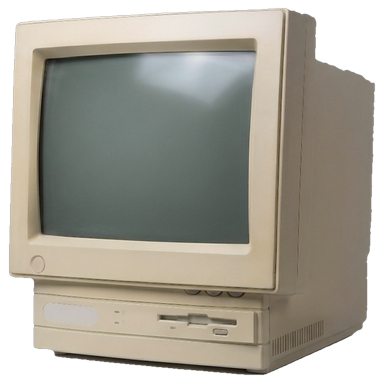
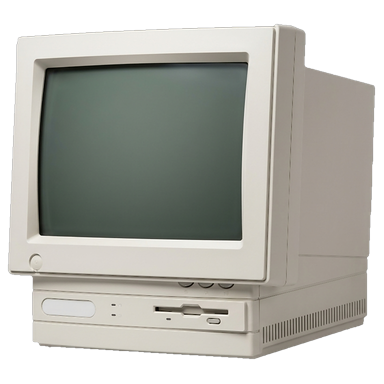
Ports: the warm grey all-in-one, cut by GrabCut from a traced outline; its floppy drive drawn flat
Claude-Session: https://claude.ai/code/session_01TGGsTE1DNkb6MQqq6tNzFj

diff --git a/tools/genportsphoto.py b/tools/genportsphoto.py
@@ -1,49 +1,59 @@
 #!/usr/bin/env python3
 """Cut res/cards/fancy/PORTS.png, Ports' card in Fancy Pants, from
-res/cards/fancy/source/ports-pc.png: a beige early-90s all-in-one, its CRT
-over a base unit, on a white studio backdrop (res/cards/fancy/SOURCE.md).
+res/cards/fancy/source/ports-pc.jpg: a warm grey early-90s all-in-one, its
+CRT over a base unit, on a white studio backdrop (res/cards/fancy/SOURCE.md).
 
-The object is told from the backdrop by colour, not brightness: the beige
-plastic is warm (red over blue by more than 22) and the vents are dark, while
-the backdrop and its soft floor shadow are near neutral; the screen, enclosed
-by the bezel, is filled in. Its outline is smoothed,
-pulled in a pixel so no backdrop rims it, and feathered a pixel. The plastic
-is cleaned of the picture's speckle (a 3x3 median), a fifth of the yellow
-cast comes out of the beige, as a white-balanced studio shot shows it, and
-it's sharpened lightly, to sit with Evan Amos's photographs. Then trimmed,
-longest side 96% of 384, centred, as the set is.
+Its plastic is nearly the backdrop's own white, so neither colour nor
+brightness tells them apart; OpenCV's GrabCut does, started from the
+machine's outline traced by hand (OUTLINE): sure inside it, well in from it;
+sure backdrop, well out from it; and left to decide in the band between,
+which is where the edges and the soft floor shadow are. The largest piece is
+kept, filled, its outline smoothed, pulled in a pixel so no backdrop rims it,
+and feathered a pixel. The plastic is cleaned of the picture's speckle (a 3x3
+median) and sharpened lightly; its colours are kept as they are, the real
+machine's. Then trimmed, longest side 96% of 384, centred, as the set is.
 
     tools/genportsphoto.py
 """
 import os
 
+import cv2
 import numpy as np
-from PIL import Image, ImageFilter
+from PIL import Image, ImageDraw, ImageFilter
 from scipy import ndimage
 
 ROOT = os.path.dirname(os.path.dirname(os.path.abspath(__file__)))
-SRC = os.path.join(ROOT, "res", "cards", "fancy", "source", "ports-pc.png")
+SRC = os.path.join(ROOT, "res", "cards", "fancy", "source", "ports-pc.jpg")
 OUT = os.path.join(ROOT, "res", "cards", "fancy", "PORTS.png")
+
+# the machine's outline in the source picture (1307x800), traced by hand from
+# contrast-stretched close-ups: the bezel, the housing stepping down behind
+# it, the base unit's rounded corner and foot, its underside's line
+OUTLINE = [(300, 70), (860, 45), (905, 48), (920, 60), (920, 136), (1069, 177), (1062, 640),
+           (1052, 675), (1045, 695), (1025, 702), (780, 765), (560, 752), (350, 740), (335, 730),
+           (335, 588), (285, 580), (288, 90)]
 
 
 def main():
     src = Image.open(SRC).convert("RGB")
-    a = np.asarray(src).astype(np.float64)
-    obj = ((a[..., 0] - a[..., 2]) > 22) | (a.mean(-1) < 100)
-    obj = ndimage.binary_opening(obj, iterations=2)
+    w, h = src.size
+    m = Image.new("L", (w, h), 0)
+    ImageDraw.Draw(m).polygon(OUTLINE, fill=1)
+    m = np.asarray(m) > 0
+    mask = np.full((h, w), cv2.GC_PR_BGD, np.uint8)
+    mask[m] = cv2.GC_PR_FGD
+    mask[ndimage.binary_erosion(m, iterations=12)] = cv2.GC_FGD
+    mask[~ndimage.binary_dilation(m, iterations=9)] = cv2.GC_BGD
+    img = cv2.cvtColor(np.asarray(src), cv2.COLOR_RGB2BGR)
+    cv2.grabCut(img, mask, None, np.zeros((1, 65)), np.zeros((1, 65)), 6, cv2.GC_INIT_WITH_MASK)
+    obj = (mask == cv2.GC_FGD) | (mask == cv2.GC_PR_FGD)
     lab, n = ndimage.label(obj)
-    obj = lab == 1 + np.argmax(ndimage.sum(obj, lab, range(1, n + 1)))
-    obj = ndimage.binary_fill_holes(ndimage.binary_closing(obj, iterations=3))
+    obj = ndimage.binary_fill_holes(lab == 1 + np.argmax(ndimage.sum(obj, lab, range(1, n + 1))))
     smooth = ndimage.binary_erosion(ndimage.gaussian_filter(obj.astype(float), 2.0) > 0.5, iterations=1)
     alpha = ndimage.gaussian_filter(smooth.astype(float), 0.8)
 
-    c = np.asarray(src.filter(ImageFilter.MedianFilter(3))).astype(np.float64)
-    lum = c.mean(-1, keepdims=True)
-    c = lum + (c - lum) * 0.8
-    c[..., 2] *= 1.03
-    c[..., 0] *= 0.99
-    c = np.clip((c - 128) * 1.06 + 128 + 4, 0, 255)
-    out = Image.fromarray(c.astype(np.uint8)).filter(ImageFilter.UnsharpMask(radius=1.2, percent=55, threshold=2))
+    out = src.filter(ImageFilter.MedianFilter(3)).filter(
+        ImageFilter.UnsharpMask(radius=1.2, percent=55, threshold=2))
     out.putalpha(Image.fromarray((alpha * 255).astype(np.uint8)))
     out = out.crop(out.getchannel("A").getbbox())
     k = 369.0 / max(out.size)

diff --git a/tools/genportscard.py b/tools/genportscard.py
@@ -74,8 +74,12 @@ def mark(d, cx, cy, fill, cut, scale=1.0):
     d.rounded_rectangle([u0 + 16 * k, uy + 30 * k, u0 + 74 * k, uy + 52 * k], radius=10 * k, fill=cut)
     for ly in (34, 48):
         d.rectangle([u0 + 100 * k, uy + ly * k, u0 + 108 * k, uy + (ly + 4) * k], fill=cut)
-    d.rounded_rectangle([u0 + 146 * k, uy + 36 * k, u0 + 236 * k, uy + 44 * k], radius=2 * k, fill=cut)
-    d.rounded_rectangle([u0 + 208 * k, uy + 54 * k, u0 + 228 * k, uy + 62 * k], radius=3 * k, fill=cut)
+    # the floppy drive's panel: its slot, its light, its eject button
+    d.rounded_rectangle([u0 + 140 * k, uy + 22 * k, u0 + 248 * k, uy + 66 * k], radius=4 * k, fill=cut)
+    d.rounded_rectangle([u0 + 144 * k, uy + 26 * k, u0 + 244 * k, uy + 62 * k], radius=3 * k, fill=fill)
+    d.rounded_rectangle([u0 + 152 * k, uy + 34 * k, u0 + 236 * k, uy + 41 * k], radius=2 * k, fill=cut)
+    d.rectangle([u0 + 160 * k, uy + 50 * k, u0 + 167 * k, uy + 53 * k], fill=cut)
+    d.rounded_rectangle([u0 + 208 * k, uy + 49 * k, u0 + 228 * k, uy + 57 * k], radius=4 * k, fill=cut)
     # the line where the drive's panel sits
     d.rectangle([u0 + 8 * k, uy + 70 * k, u0 + uw - 8 * k, uy + 72 * k], fill=cut)
 

diff --git a/res/cards/fancy/SOURCE.md b/res/cards/fancy/SOURCE.md
@@ -66,10 +66,10 @@ scaled as above, longest side 96% of 384.
 
 ## PORTS.png
 
-Not a console: Ports' card, a beige early-90s all-in-one computer, its CRT
+Not a console: Ports' card, a warm grey early-90s all-in-one computer, its CRT
 over a base unit with a floppy drive, supplied by SkyWalker541 on 2026-11-21
 for this card
-(`source/ports-pc.png`, kept here). `tools/genportsphoto.py` cuts it from its
+(`source/ports-pc.jpg`, kept here). `tools/genportsphoto.py` cuts it from its
 white backdrop, cleans and white-balances it toward the set and frames it as
 above. It has no maker's name on it. It replaced a rendered arcade stick
 (`tools/genportsfancy.py`, kept).
